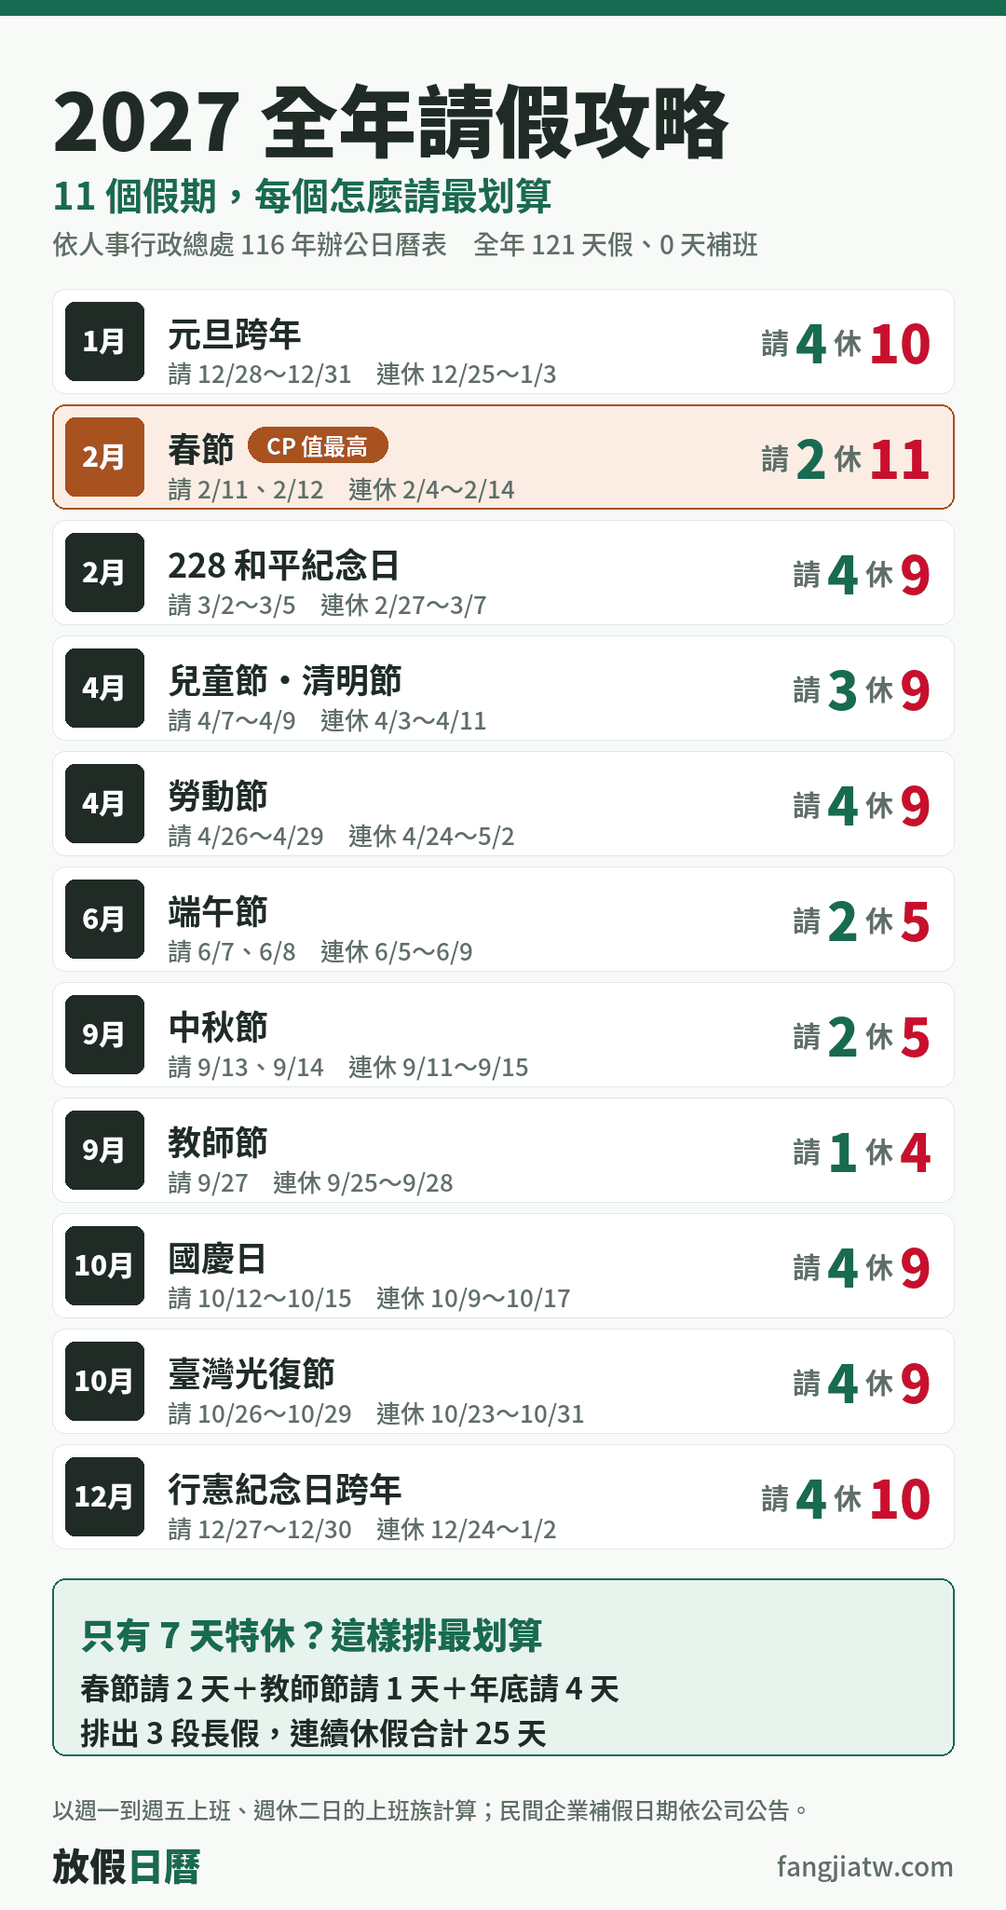
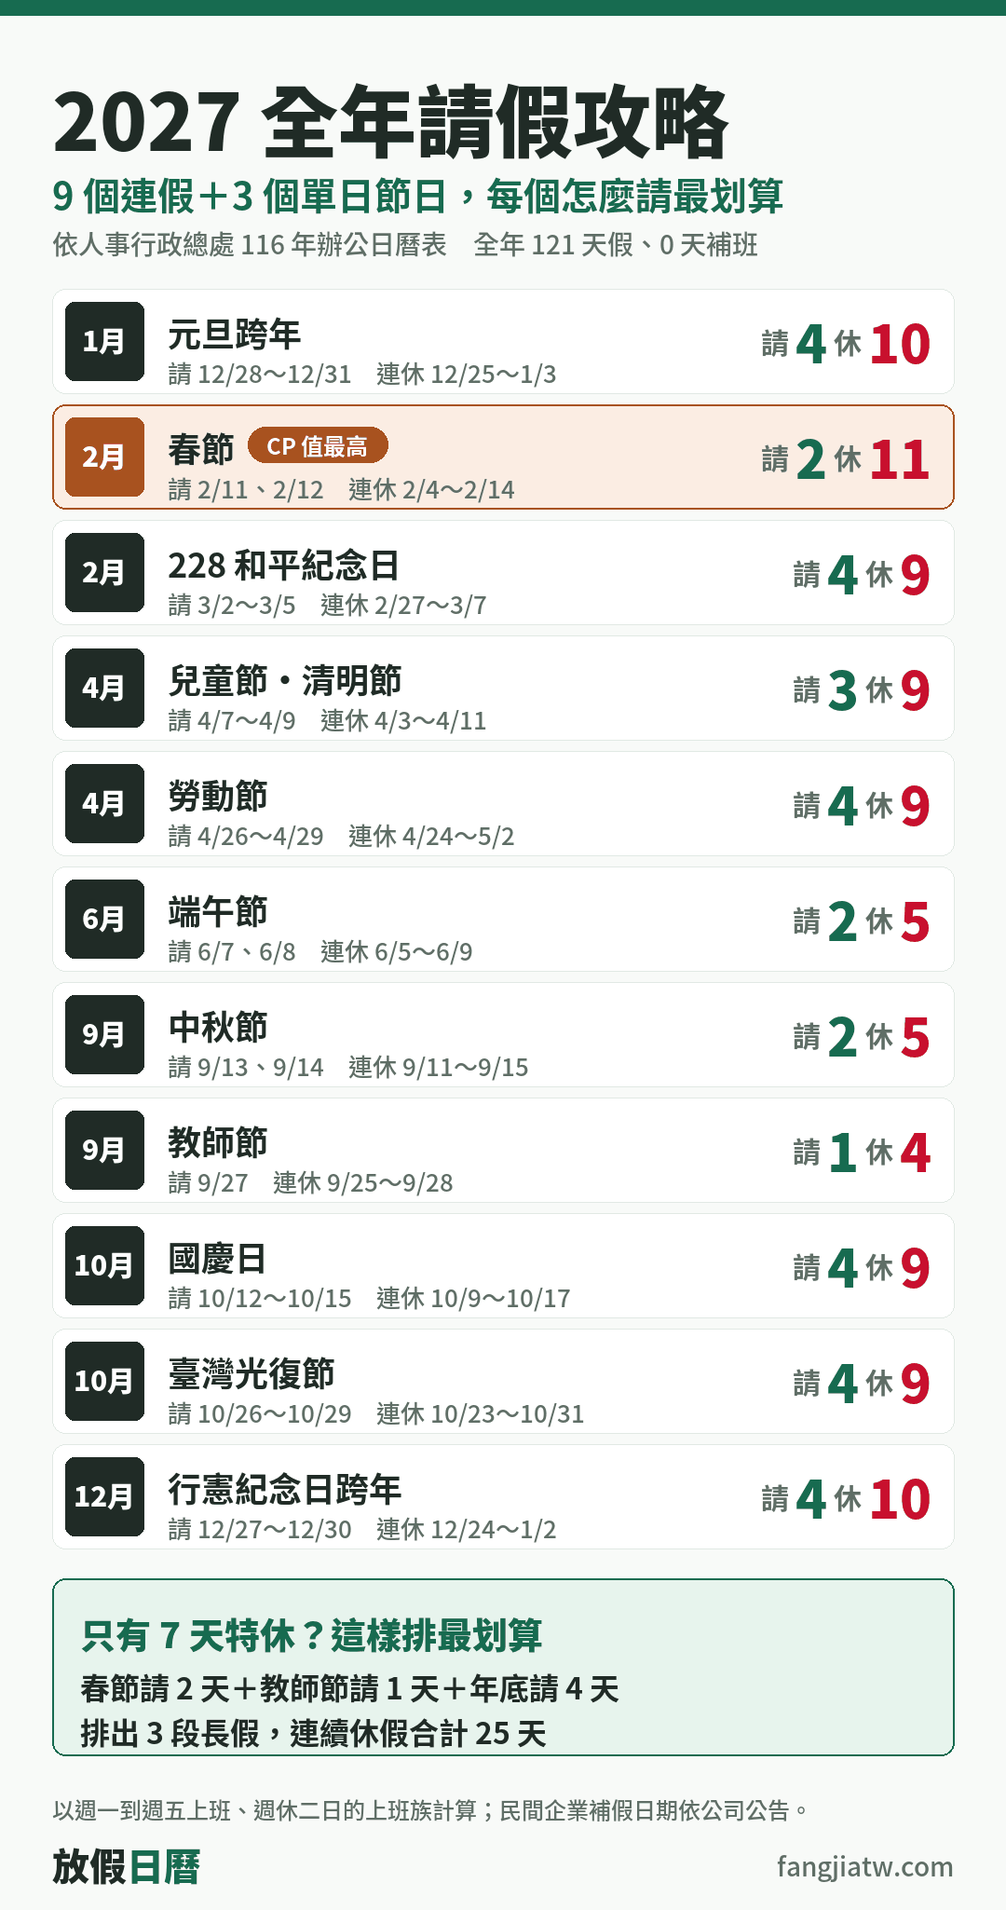
Homepage planner: 3/7/10/14 presets + custom 1-30 days, full-year allocation synced to calendar; clarify year card wording
- yearPlan() knapsack over holiday windows; stats (used/left/segments/total), cards and green calendar marks update on every change
- Presets match /2027/qingjia/ plans (14-day plan now uses 228 tie)
- Year card: 9 long weekends + 3 single-day holidays

Changed region(s): [[0.0611, 0.0937, 0.7944, 0.1249]]

diff --git a/index.html b/index.html
@@ -133,11 +133,25 @@ main > section:last-child{padding-bottom:var(--gap)}
 .chip{min-height:48px;border:1px solid var(--line);background:var(--surface);color:var(--text);border-radius:12px;font:inherit;font-weight:700;font-size:1rem;cursor:pointer}
 .chip:hover{border-color:var(--primary);color:var(--primary)}
 .chip[aria-pressed="true"]{background:var(--primary);border-color:var(--primary);color:var(--on-primary)}
+.chip small{display:block;font-size:.72rem;font-weight:500;line-height:1.2}
+.custom{display:flex;align-items:center;flex-wrap:wrap;gap:6px 12px}
+.custom label{font-weight:700}
+.custom input{width:96px;min-height:48px;padding:0 12px;border:1px solid var(--line);border-radius:12px;background:var(--surface);color:var(--text);font:inherit;font-weight:700;font-size:1.1rem}
+.custom input:focus-visible{outline:3px solid var(--accent);outline-offset:2px}
+.custom input[aria-invalid="true"]{border-color:var(--hol);box-shadow:inset 0 0 0 1px var(--hol)}
+.custom-help{color:var(--muted);font-size:.88rem}
+.custom-help.err{color:var(--hol);font-weight:700}
+.plan-stats{display:grid;grid-template-columns:repeat(4,minmax(0,1fr));gap:8px}
+.ps{background:var(--surface);border-radius:12px;padding:8px 6px;display:grid;text-align:center;line-height:1.3}
+.ps b{font-size:1.5rem;font-weight:900;color:var(--primary)}
+.ps span{font-size:.78rem;color:var(--muted)}
+.plan-alt{color:var(--muted);font-size:.9rem}
+.plan-alt:empty{display:none}
 .plan-box{background:var(--primary-light);border-radius:var(--r);padding:16px;display:grid;gap:12px}
 .plan-sum{font-weight:700;font-size:1.05rem;min-height:1.7em}
 .plan-sum b{color:var(--primary);font-size:1.35rem}
 .results{display:grid;grid-template-columns:repeat(auto-fill,minmax(min(100%,240px),1fr));gap:10px}
-.res{border:1px solid var(--line);border-radius:12px;padding:14px;background:var(--surface);text-align:left;font:inherit;color:inherit;cursor:pointer;display:grid;gap:4px;min-height:48px}
+.res{border:1px solid var(--line);border-radius:12px;padding:14px;background:var(--surface);text-align:left;font:inherit;color:inherit;text-decoration:none;cursor:pointer;display:grid;gap:4px;min-height:48px}
 .res:hover{border-color:var(--primary)}
 .res[aria-pressed="true"]{border-color:var(--primary);box-shadow:inset 0 0 0 1px var(--primary)}
 .res .big{font-weight:900;font-size:1.45rem}
@@ -313,14 +327,22 @@ main > section:last-child{padding-bottom:var(--gap)}
     </div>
     <div class="planner">
       <div class="picker">
-        <span class="picker-label" id="chipsLabel">我想請幾天特休？</span>
-        <div class="chips" id="chips" role="group" aria-labelledby="chipsLabel"><button class="chip" type="button" aria-pressed="false" data-n="1">1 天</button><button class="chip" type="button" aria-pressed="false" data-n="2">2 天</button><button class="chip" type="button" aria-pressed="true" data-n="3">3 天</button><button class="chip" type="button" aria-pressed="false" data-n="4">4 天</button><button class="chip" type="button" aria-pressed="false" data-n="5">5 天</button><button class="chip" type="button" aria-pressed="false" data-n="6">6 天</button><button class="chip" type="button" aria-pressed="false" data-n="8">8 天</button></div>
+        <span class="picker-label" id="chipsLabel">我有幾天特休？</span>
+        <div class="chips" id="chips" role="group" aria-labelledby="chipsLabel"><button class="chip" type="button" aria-pressed="true" data-n="3">3 天<small>滿半年</small></button><button class="chip" type="button" aria-pressed="false" data-n="7">7 天<small>滿 1 年</small></button><button class="chip" type="button" aria-pressed="false" data-n="10">10 天<small>滿 2 年</small></button><button class="chip" type="button" aria-pressed="false" data-n="14">14 天<small>滿 3 年</small></button></div>
+        <div class="custom"><label for="leaveN">自訂天數</label><input id="leaveN" type="number" inputmode="numeric" min="1" max="30" step="1" value="3" aria-describedby="leaveHelp"><span class="custom-help" id="leaveHelp">可輸入 1～30 天</span></div>
       </div>
       <div class="plan-box">
+        <div class="plan-stats">
+          <div class="ps"><b class="num" id="psUsed">3</b><span>使用特休</span></div>
+          <div class="ps"><b class="num" id="psLeft">0</b><span>剩餘特休</span></div>
+          <div class="ps"><b class="num" id="psSegs">2</b><span>長假段數</span></div>
+          <div class="ps"><b class="num" id="psTotal">15</b><span>連休合計</span></div>
+        </div>
         <p class="plan-sum" id="planSum" aria-live="polite">&nbsp;</p>
         <div class="results" id="results"></div>
+        <p class="plan-alt" id="planAlt"></p>
       </div>
-      <p class="hint">點選任一方案，下方行事曆會用綠色標出要請假的日子。</p>
+      <p class="hint">選好天數，下方行事曆會自動用綠色標出所有建議請假日；點任一段假期可以跳到該月份。</p>
     </div>
   </section>
 
@@ -331,7 +353,7 @@ main > section:last-child{padding-bottom:var(--gap)}
       <p>每個連假放哪幾天、怎麼請假最划算，點進攻略看完整排法。</p>
     </div>
     <div class="lw" id="lwList"></div>
-    <figure class="info year"><img src="/assets/info/2027-year.webp?v=351c9378" width="1080" height="2050" loading="lazy" alt="2027 全年請假攻略圖：11 個假期最划算請法，春節請 2 休 11、清明請 3 休 9、教師節請 1 休 4、年底請 4 休 10"><figcaption><b>一張圖看懂 2027 怎麼請假</b><span>11 個假期的最划算請法、要請哪幾天、能連休幾天，全部整理在這張圖。春節請 2 天就能休 11 天，是全年 CP 值最高的連假。</span><span>手機長按圖片就能存圖，傳給家人朋友一起排假。</span><a href="/2027/qingjia/">看 2027 請假攻略：特休 3～14 天怎麼排 →</a></figcaption></figure>
+    <figure class="info year"><img src="/assets/info/2027-year.webp?v=324f97ca" width="1080" height="2050" loading="lazy" alt="2027 全年請假攻略圖：9 個 3 天以上連假（年底行憲紀念日與跨年合併成一列）加上端午、中秋、教師節 3 個單日節日的最划算請法，春節請 2 休 11、清明請 3 休 9、教師節請 1 休 4、年底請 4 休 10"><figcaption><b>一張圖看懂 2027 怎麼請假</b><span>9 個 3 天以上連假，加上端午、中秋、教師節 3 個單日節日，每個的最划算請法、要請哪幾天、能連休幾天，全部整理在這張圖。春節請 2 天就能休 11 天，是全年 CP 值最高的連假。</span><span>手機長按圖片就能存圖，傳給家人朋友一起排假。</span><a href="/2027/qingjia/">看 2027 請假攻略：特休 3～14 天怎麼排 →</a></figcaption></figure>
     <p class="singles">放 1 天、沒有連假的：端午節 6/9（三）、中秋節 9/15（三）、教師節 9/28（二）。每個連假怎麼請最划算、特休 3～14 天怎麼排，請看 <a href="/2027/qingjia/">2027 全年請假攻略</a>。</p>
   </section>
 
@@ -577,39 +599,75 @@ main > section:last-child{padding-bottom:var(--gap)}
   }
 
   // ---- render: planner ----
+  // 全年特休分配：在特休額度內挑幾段互不重疊、含國定假日的連假（請假日都在 2027 年），
+  // 讓「連休天數 − 1」的總和最大（同樣天數時偏好段數少、每段長）；同分時依序選段數較少、每段 CP 值（休÷請）較高、日期較早的。
+  // 特休 3／7／10／14 天的結果與 /2027/qingjia/ 文章的排法一致（14 天時 228 和勞動節同分，文章也列為可互換）。
+  const MAXN = 30;
+  function yearPlan(B){
+    const C = candidates(B)
+      .filter(x=>DAYS.slice(x.i,x.j+1).some(y=>HOL[y.k]) && leaveDays(x).every(d=>d.getFullYear()===2027))
+      .sort((a,b)=>a.j-b.j || a.i-b.i);
+    const val = x => (x.len-1)*1e7 - 1e5 + Math.round(x.len/x.leave*100) - x.i/1000;
+    const prev = C.map(c=>{ let k=-1; C.forEach((t,ix)=>{ if(t.j<c.i) k=ix; }); return k; });
+    const best = [Array.from({length:B+1},()=>({v:0,set:[]}))];
+    C.forEach((c,t)=>{
+      const row = best[t].slice();
+      for(let b=c.leave;b<=B;b++){
+        const p = best[prev[t]+1][b-c.leave], v = p.v + val(c);
+        if(v > row[b].v) row[b] = {v, set:[...p.set,c]};
+      }
+      best.push(row);
+    });
+    return best[C.length][B].set.sort((a,b)=>a.i-b.i);
+  }
+
   const chips=document.getElementById("chips"), results=document.getElementById("results");
+  const input=document.getElementById("leaveN"), help=document.getElementById("leaveHelp");
+  const fmtD = d => `${d.getMonth()+1}/${d.getDate()}`;
   let N = 3;
-  try{ const s=+localStorage.getItem("leaveN"); if(s>=1&&s<=8) N=s; }catch(e){}
+  try{ const s=+localStorage.getItem("leaveN"); if(Number.isInteger(s)&&s>=1&&s<=MAXN) N=s; }catch(e){}
   function renderPlanner(){
-    chips.innerHTML = [1,2,3,4,5,6,8].map(n=>`<button class="chip" type="button" aria-pressed="${n===N}" data-n="${n}">${n} 天</button>`).join("");
-    const p = plan(N);
-    const b0 = p[0];
-    document.getElementById("planSum").innerHTML = b0
-      ? `有 ${N} 天特休，最長可連休 <b class="num">${b0.len}</b> 天${b0.leave<N?`（只要請 ${b0.leave} 天）`:""}：${md(DAYS[b0.i].d)} – ${md(DAYS[b0.j].d)}`
-      : `有 ${N} 天特休，目前找不到可以接成連假的組合`;
-    results.innerHTML = p.map((x,ix)=>{
+    chips.querySelectorAll(".chip").forEach(c=>c.setAttribute("aria-pressed",String(+c.dataset.n===N)));
+    if(+input.value!==N) input.value=N;
+    input.removeAttribute("aria-invalid"); help.classList.remove("err"); help.textContent="可輸入 1～30 天";
+    const segs = yearPlan(N);
+    const used = segs.reduce((s,x)=>s+x.leave,0), total = segs.reduce((s,x)=>s+x.len,0);
+    document.getElementById("psUsed").textContent = used;
+    document.getElementById("psLeft").textContent = N-used;
+    document.getElementById("psSegs").textContent = segs.length;
+    document.getElementById("psTotal").textContent = total;
+    document.getElementById("planSum").innerHTML = segs.length
+      ? `特休 ${N} 天可以排出 ${segs.length} 段長假，連續休假日合計 <b class="num">${total}</b> 天${N>used?`，剩 ${N-used} 天可自由運用`:""}`
+      : `特休 ${N} 天目前找不到可以接成連假的組合`;
+    const top = segs.reduce((a,x)=>!a||x.len/x.leave>a.len/a.leave?x:a,null);
+    results.innerHTML = segs.map(x=>{
       const s=DAYS[x.i].d, e=DAYS[x.j].d, lv=leaveDays(x);
-      return `<button class="res" type="button" data-ix="${ix}" aria-pressed="false">
-        ${ix===0?'<span class="tag">最划算</span>':""}
+      const m = lv[0].getMonth()+1;
+      return `<a class="res" href="#m${m}" aria-label="${fmtD(s)} 到 ${fmtD(e)}，請 ${x.leave} 天休 ${x.len} 天，跳到 ${m} 月行事曆">
+        ${x===top&&segs.length>1?'<span class="tag">最划算</span>':""}
         <div class="big">請 <span>${x.leave}</span> 休 ${x.len}</div>
         <div>${md(s)} – ${md(e)}</div>
-        <small>請假日：${lv.map(d=>`${d.getMonth()+1}/${d.getDate()}`).join("、")}</small>
-      </button>`;
+        <small>請假日：${lv.map(fmtD).join("、")}</small>
+      </a>`;
     }).join("");
-    results.querySelectorAll(".res").forEach(btn=>btn.addEventListener("click",()=>{
-      const on = btn.getAttribute("aria-pressed")!=="true";
-      results.querySelectorAll(".res").forEach(b=>b.setAttribute("aria-pressed","false"));
-      btn.setAttribute("aria-pressed",String(on));
-      highlight = on ? new Set(leaveDays(p[+btn.dataset.ix]).map(key)) : new Set();
-      renderMonths();
-    }));
-    chips.querySelectorAll(".chip").forEach(c=>c.addEventListener("click",()=>{
-      N=+c.dataset.n; try{localStorage.setItem("leaveN",N)}catch(e){}
-      highlight=new Set(); renderPlanner(); renderMonths();
-      chips.querySelector(`[data-n="${N}"]`).focus(); // 按鈕重畫後把鍵盤焦點留在選中的天數
-    }));
+    // 對照：同樣天數全部集中請一次，最長能連休幾天（舊版計算器的算法）
+    const one = plan(N)[0], longest = Math.max(0,...segs.map(x=>x.len));
+    document.getElementById("planAlt").textContent = one && one.len>longest
+      ? `想一次休很長？${N} 天集中請，${md(DAYS[one.i].d)} – ${md(DAYS[one.j].d)} 可連休 ${one.len} 天（請 ${one.leave} 天）。`
+      : "";
+    highlight = new Set(segs.flatMap(x=>leaveDays(x).map(key)));
+    renderMonths();
   }
-  renderPlanner(); renderMonths();
+  const setN = n => { N=n; try{localStorage.setItem("leaveN",N)}catch(e){} renderPlanner(); };
+  chips.addEventListener("click",e=>{ const c=e.target.closest(".chip"); if(c) setN(+c.dataset.n); });
+  input.addEventListener("input",()=>{
+    const v = input.value.trim(), n = +v;
+    if(v!=="" && Number.isInteger(n) && n>=1 && n<=MAXN){ if(n!==N) setN(n); return; }
+    input.setAttribute("aria-invalid","true"); help.classList.add("err");
+    help.textContent = v==="" ? "請輸入 1～30 天" : "請輸入 1～30 的整數";
+  });
+  input.addEventListener("blur",()=>{ if(input.getAttribute("aria-invalid")) renderPlanner(); });
+  renderPlanner();
 
   // ---- render: hero stats（由上方資料計算，HTML 內的數字只是載入前的預設值） ----
   const y27 = DAYS.filter(x=>x.d.getFullYear()===2027);

diff --git a/2027/qingjia/index.html b/2027/qingjia/index.html
@@ -36,7 +36,7 @@
       "@type":"Article",
       "headline":"2027 請假攻略｜9 大連假、特休 3～14 天最佳排法，特休 7 天排出 3 段長假",
       "datePublished":"2026-11-02",
-      "dateModified":"2026-11-02",
+      "dateModified":"2026-11-10",
       "inLanguage":"zh-Hant-TW",
       "mainEntityOfPage":"https://fangjiatw.com/2027/qingjia/",
       "publisher":{"@type":"Organization","name":"放假日曆","url":"https://fangjiatw.com/"}
@@ -85,7 +85,7 @@
   <div>
     <div class="crumb"><a href="/">放假日曆</a> › 2027 請假攻略</div>
     <h1>2027 請假攻略：<br>9 大連假、特休 3～14 天最佳排法</h1>
-    <div class="meta">發布日期：2026 年 11 月 2 日 · 最後更新：2026 年 11 月 2 日 · 資料來源：人事行政總處、勞動部</div>
+    <div class="meta">發布日期：2026 年 11 月 2 日 · 最後更新：2026 年 11 月 10 日 · 資料來源：人事行政總處、勞動部</div>
   </div>
 
   <div class="answer">
@@ -101,7 +101,7 @@
       <div><b>0 天</b><small>補班日</small></div>
     </div>
     <p style="margin-top:12px"><b>最推薦的請假日期：</b>春節 2/11～2/12（請 2 休 11）、教師節 9/27（請 1 休 4）、年底 12/27～12/30（請 4 休 10）。這 7 天特休可以排出 3 段長假，連續休假日合計 25 天。</p>
-    <figure class="info year"><img src="/assets/info/2027-year.png?v=3c169694" width="1080" height="2050" loading="lazy" alt="2027 全年請假攻略圖：11 個假期最划算請法，春節請 2 休 11、清明請 3 休 9、教師節請 1 休 4、年底請 4 休 10"><figcaption>2027 全年請假攻略圖：11 個假期最划算請法，春節請 2 休 11、清明請 3 休 9、教師節請 1 休 4、年底請 4 休 10。手機長按圖片可存圖分享。</figcaption></figure>
+    <figure class="info year"><img src="/assets/info/2027-year.png?v=a5639e0a" width="1080" height="2050" loading="lazy" alt="2027 全年請假攻略圖：9 個 3 天以上連假（年底行憲紀念日與跨年合併成一列）加上端午、中秋、教師節 3 個單日節日的最划算請法，春節請 2 休 11、清明請 3 休 9、教師節請 1 休 4、年底請 4 休 10"><figcaption>2027 全年請假攻略圖：9 個 3 天以上連假（年底行憲紀念日與跨年合併成一列）加上端午、中秋、教師節 3 個單日節日的最划算請法，春節請 2 休 11、清明請 3 休 9、教師節請 1 休 4、年底請 4 休 10。手機長按圖片可存圖分享。</figcaption></figure>
     <p class="note">12/31（五）放假是因為 2028 年元旦落在星期六，提前一天補假，不需要補班。</p>
   </section>
 
@@ -188,8 +188,8 @@
     <p>在 3 天的基礎上，加請 12/27～12/30 四天，從聖誕節前的 12/24 一路休到 2028 年 1/2，共 10 天，適合年底出國跨年。春節、教師節、年底 3 段長假的連續休假日合計 25 天，節奏剛好。</p>
     <h3 style="margin:16px 0 8px">特休 10 天：加上清明 9 天</h3>
     <p>再加請清明後的 4/7～4/9，從 4/3 連休到 4/11，剛好碰上日本、韓國的櫻花季。四月初機票和住宿比較搶手，確定要請就盡早訂。</p>
-    <h3 style="margin:16px 0 8px">特休 14 天：再加勞動節 9 天</h3>
-    <p>再加請 4/26～4/29，從 4/24 連休到 5/2。如果清明和勞動節不想都出國，也可以把這 4 天改放在 228（請 3/2～3/5）、端午（請 6/7～6/8、6/10～6/11）、中秋（請 9/13～9/14、9/16～9/17）、國慶（請 10/12～10/15）或光復節（請 10/26～10/29），一樣都是請 4 休 9。</p>
+    <h3 style="margin:16px 0 8px">特休 14 天：再加 228 連假 9 天</h3>
+    <p>再加請 3/2～3/5，從 2/27 連休到 3/7。如果春節後不想馬上又放長假，也可以把這 4 天改放在勞動節（請 4/26～4/29）、端午（請 6/7～6/8、6/10～6/11）、中秋（請 9/13～9/14、9/16～9/17）、國慶（請 10/12～10/15）或光復節（請 10/26～10/29），一樣都是請 4 休 9。</p>
     <h3 style="margin:16px 0 8px">想一次休很長：十月請 9 天休 17 天</h3>
     <p>國慶日和光復節中間只隔兩週，請 10/12～10/15 和 10/18～10/22 共 9 天，可以從 10/9 一路休到 10/25，連休 17 天。適合安排歐洲、長途旅行，但要看公司是否同意一次請這麼久。詳細排法請看 <a href="/2027/guoqing/">2027 國慶連假攻略</a>。</p>
   </section>
@@ -316,13 +316,13 @@
     tch:  {name:"教師節", leave:d(["09-27"]), from:"9/25", to:"9/28", days:4},
     xmas: {name:"年底聖誕跨年", leave:d(["12-27","12-28","12-29","12-30"]), from:"12/24", to:"2028/1/2", days:10},
     qm:   {name:"清明", leave:d(["04-07","04-08","04-09"]), from:"4/3", to:"4/11", days:9},
-    lab:  {name:"勞動節", leave:d(["04-26","04-27","04-28","04-29"]), from:"4/24", to:"5/2", days:9}
+    p228: {name:"228 和平紀念日", leave:d(["03-02","03-03","03-04","03-05"]), from:"2/27", to:"3/7", days:9}
   };
   const PLANS = [
     {n:3, segs:["cny","tch"]},
     {n:7, segs:["cny","tch","xmas"], best:true},
     {n:10, segs:["cny","tch","xmas","qm"]},
-    {n:14, segs:["cny","tch","xmas","qm","lab"]}
+    {n:14, segs:["cny","tch","xmas","qm","p228"]}
   ];
   PLANS.forEach(p=>p.total=p.segs.reduce((s,k)=>s+SEG[k].days,0));
   const md = x=>+x.slice(5,7)+"/"+(+x.slice(8));

diff --git a/_src/build_info.py b/_src/build_info.py
@@ -172,7 +172,7 @@ def draw_year(out):
     im = Image.new("RGB", (W, H), PAPER); d = ImageDraw.Draw(im)
     d.rectangle([0, 0, W, 16], fill=BRAND)
     d.text((x0, 64), "2027 全年請假攻略", font=F("Black", 84), fill=INK)
-    d.text((x0, 178), "11 個假期，每個怎麼請最划算", font=F("Bold", 40), fill=BRAND)
+    d.text((x0, 178), "9 個連假＋3 個單日節日，每個怎麼請最划算", font=F("Bold", 40), fill=BRAND)
     d.text((x0, 240), "依人事行政總處 116 年辦公日曆表　全年 121 天假、0 天補班", font=F("Medium", 28), fill=MUTED)
     y = 310
     for name, leave, a, b, days in rows:
@@ -216,12 +216,12 @@ def draw_year(out):
 yw, yh = draw_year("assets/info/2027-year.png")
 print("year card", (yw, yh))
 # 插進首頁「2027 連假一覽」和 2027 請假攻略（插在指定文字之前；重跑會先移除舊的）
-YALT = "2027 全年請假攻略圖：11 個假期最划算請法，春節請 2 休 11、清明請 3 休 9、教師節請 1 休 4、年底請 4 休 10"
+YALT = "2027 全年請假攻略圖：9 個 3 天以上連假（年底行憲紀念日與跨年合併成一列）加上端午、中秋、教師節 3 個單日節日的最划算請法，春節請 2 休 11、清明請 3 休 9、教師節請 1 休 4、年底請 4 休 10"
 for f, anchor in [("index.html", '    <p class="singles">'), ("2027/qingjia/index.html", '    <p class="note">12/31（五）放假是因為')]:
     s = io.open(f, encoding="utf-8", newline="").read()
     s = re.sub(r'    <figure class="info year">.*?</figure>\n', "", s, flags=re.S)
     cap = (f'<figcaption>{YALT}。手機長按圖片可存圖分享。</figcaption>' if f != "index.html" else
-           '<figcaption><b>一張圖看懂 2027 怎麼請假</b><span>11 個假期的最划算請法、要請哪幾天、能連休幾天，全部整理在這張圖。春節請 2 天就能休 11 天，是全年 CP 值最高的連假。</span>'
+           '<figcaption><b>一張圖看懂 2027 怎麼請假</b><span>9 個 3 天以上連假，加上端午、中秋、教師節 3 個單日節日，每個的最划算請法、要請哪幾天、能連休幾天，全部整理在這張圖。春節請 2 天就能休 11 天，是全年 CP 值最高的連假。</span>'
            '<span>手機長按圖片就能存圖，傳給家人朋友一起排假。</span><a href="/2027/qingjia/">看 2027 請假攻略：特休 3～14 天怎麼排 →</a></figcaption>')
     ext = "webp" if f == "index.html" else "png"   # 首頁用 WebP（build_home_thumbs.py 產生）；文章維持 PNG 方便存圖
     fig = (f'    <figure class="info year"><img src="/assets/info/2027-year.{ext}?v={ver(f"assets/info/2027-year.{ext}")}" width="{yw}" height="{yh}" loading="lazy" alt="{YALT}">'
